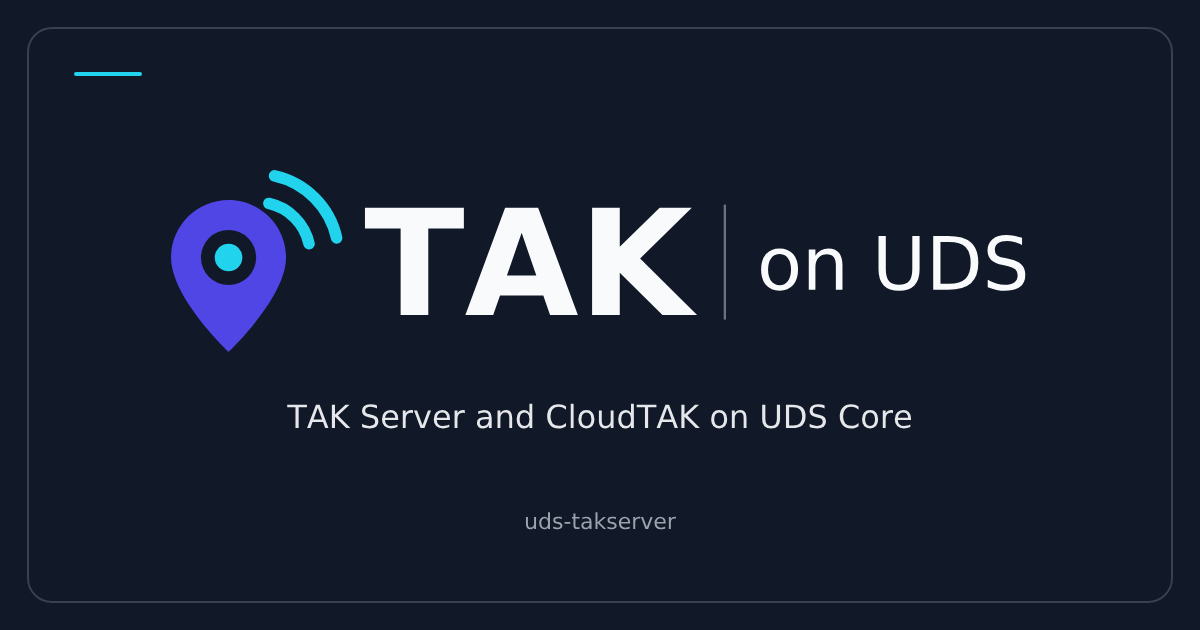
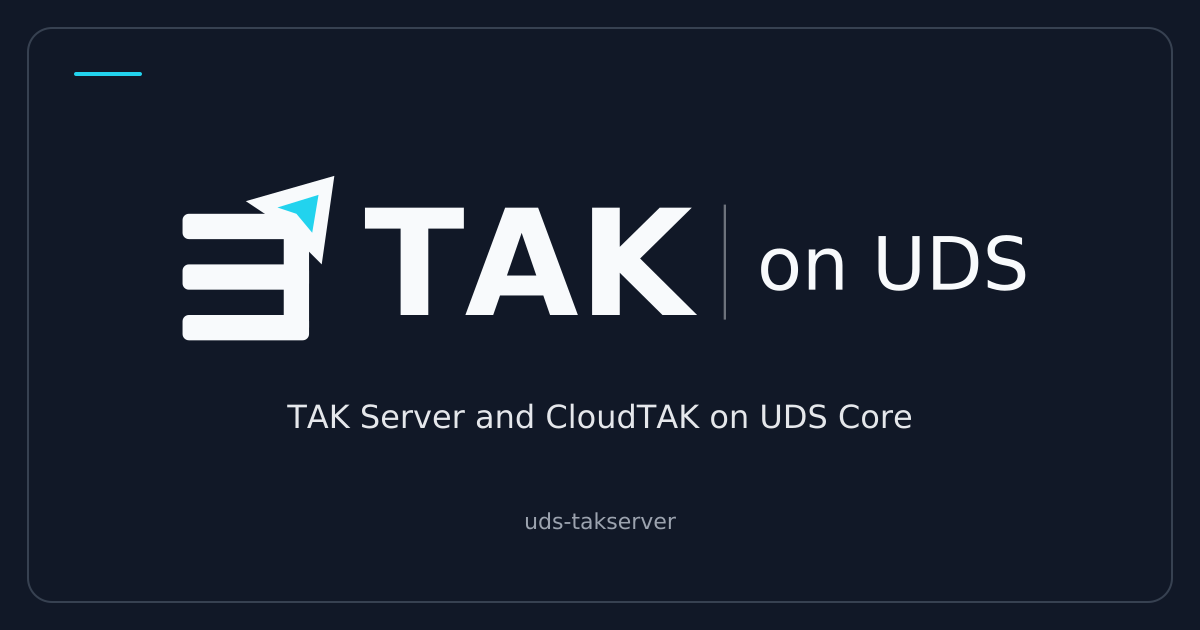
design: apply connected stack identity across project surfaces

Changed region(s): [[0.1233, 0.2714, 0.3083, 0.573]]

diff --git a/assets/concepts/community/index.html b/assets/concepts/community/index.html
@@ -23,4 +23,4 @@
   <path fill="currentColor" d="m51 10-2 12-5-6-6-2Z"/></svg><div class="reverse"><svg viewBox="0 0 64 64" width="48" height="48">  <path d="M16 16V40Q16 52 28 52H32Q44 52 44 40V20" fill="none" stroke="currentColor" stroke-width="8" stroke-linecap="round"/>
   <circle cx="16" cy="16" r="8" fill="currentColor"/>
   <path fill="currentColor" d="M56 4 52 32 40 20 28 12Z"/>
-  <path fill="currentColor" d="m51 10-2 12-5-6-6-2Z"/></svg></div><span class="mono-note">Transparent · one ink ready</span></div><section><h3>INDIGO ACCENT COMPARISON</h3><div class="sizes"><div><img src="trail-relay-indigo.svg" width="16" height="16" alt="Waypoint relay, 16 pixels, indigo accent"><span>16px</span></div><div><img src="trail-relay-indigo.svg" width="24" height="24" alt="Waypoint relay, 24 pixels, indigo accent"><span>24px</span></div><div><img src="trail-relay-indigo.svg" width="32" height="32" alt="Waypoint relay, 32 pixels, indigo accent"><span>32px</span></div></div></section></article></div><div class="recommend"><div><strong>01 / Recommended: connected stack</strong><p>A literal alternative for the integrated platform identity. Three substantial layers connect to a navigation heading. At 16px each layer and the connecting bus are 2px thick. The 2px gaps preserve the three layers. The navy heading outline preserves the silhouette on white.</p></div><div><strong>02 / Alternative: waypoint relay</strong><p>A teammate node links through a U-shaped route to a heading. The route reads clearly at 16px, but says less about an integrated platform. The stack is the stronger combined TAK and UDS identity.</p></div></div><div class="usecases"><h2>From favicon to field screen</h2><p>Each direction shown at its intended size. These are presentation mockups, not changes to the application.</p><article class="usecase"><h3>CONNECTED STACK</h3><div class="docsbar"><img src="stack-relay-wordmark-light.svg" width="193" height="48" alt="TAK on UDS Connected stack wordmark"><span>Documentation</span><span>Guides · Reference</span></div><div class="examples"><div class="apptile"><img src="stack-relay-dark.svg" width="80" height="80" alt="Connected stack app icon"><strong>TAK on UDS</strong><span>App tile · 80px</span></div><div class="video"><div class="mapline one"></div><div class="mapline two"></div><span>Demo presentation / watermark scale</span><img src="stack-relay-wordmark-dark.svg" width="154" height="38" alt="TAK on UDS Connected stack watermark"></div></div></article><article class="usecase"><h3>WAYPOINT RELAY</h3><div class="docsbar"><img src="trail-relay-wordmark-light.svg" width="193" height="48" alt="TAK on UDS Waypoint relay wordmark"><span>Documentation</span><span>Guides · Reference</span></div><div class="examples"><div class="apptile"><img src="trail-relay-dark.svg" width="80" height="80" alt="Waypoint relay app icon"><strong>TAK on UDS</strong><span>App tile · 80px</span></div><div class="video"><div class="mapline one"></div><div class="mapline two"></div><span>Demo presentation / watermark scale</span><img src="trail-relay-wordmark-dark.svg" width="154" height="38" alt="TAK on UDS Waypoint relay watermark"></div></div></article></div><footer><span>REVIEW CONCEPTS · ORIGINAL SVG GEOMETRY · NO DEPLOYED BRANDING CHANGES</span><div class="current"><img src="../../tak-mark.svg" width="24" height="24" alt="Current beacon mark"><span>Current beacon for comparison</span></div></footer></main></html>
+  <path fill="currentColor" d="m51 10-2 12-5-6-6-2Z"/></svg></div><span class="mono-note">Transparent · one ink ready</span></div><section><h3>INDIGO ACCENT COMPARISON</h3><div class="sizes"><div><img src="trail-relay-indigo.svg" width="16" height="16" alt="Waypoint relay, 16 pixels, indigo accent"><span>16px</span></div><div><img src="trail-relay-indigo.svg" width="24" height="24" alt="Waypoint relay, 24 pixels, indigo accent"><span>24px</span></div><div><img src="trail-relay-indigo.svg" width="32" height="32" alt="Waypoint relay, 32 pixels, indigo accent"><span>32px</span></div></div></section></article></div><div class="recommend"><div><strong>01 / Recommended: connected stack</strong><p>A literal alternative for the integrated platform identity. Three substantial layers connect to a navigation heading. At 16px each layer and the connecting bus are 2px thick. The 2px gaps preserve the three layers. The navy heading outline preserves the silhouette on white.</p></div><div><strong>02 / Alternative: waypoint relay</strong><p>A teammate node links through a U-shaped route to a heading. The route reads clearly at 16px, but says less about an integrated platform. The stack is the stronger combined TAK and UDS identity.</p></div></div><div class="usecases"><h2>From favicon to field screen</h2><p>Each direction shown at its intended size. These are presentation mockups, not changes to the application.</p><article class="usecase"><h3>CONNECTED STACK</h3><div class="docsbar"><img src="stack-relay-wordmark-light.svg" width="193" height="48" alt="TAK on UDS Connected stack wordmark"><span>Documentation</span><span>Guides · Reference</span></div><div class="examples"><div class="apptile"><img src="stack-relay-dark.svg" width="80" height="80" alt="Connected stack app icon"><strong>TAK on UDS</strong><span>App tile · 80px</span></div><div class="video"><div class="mapline one"></div><div class="mapline two"></div><span>Demo presentation / watermark scale</span><img src="stack-relay-wordmark-dark.svg" width="154" height="38" alt="TAK on UDS Connected stack watermark"></div></div></article><article class="usecase"><h3>WAYPOINT RELAY</h3><div class="docsbar"><img src="trail-relay-wordmark-light.svg" width="193" height="48" alt="TAK on UDS Waypoint relay wordmark"><span>Documentation</span><span>Guides · Reference</span></div><div class="examples"><div class="apptile"><img src="trail-relay-dark.svg" width="80" height="80" alt="Waypoint relay app icon"><strong>TAK on UDS</strong><span>App tile · 80px</span></div><div class="video"><div class="mapline one"></div><div class="mapline two"></div><span>Demo presentation / watermark scale</span><img src="trail-relay-wordmark-dark.svg" width="154" height="38" alt="TAK on UDS Waypoint relay watermark"></div></div></article></div><footer><span>REVIEW CONCEPTS · ORIGINAL SVG GEOMETRY · NO DEPLOYED BRANDING CHANGES</span><div class="current"><img src="../../tak-mark.svg" width="24" height="24" alt="Selected project mark"><span>Selected project mark</span></div></footer></main></html>

diff --git a/assets/concepts/community/build-preview.py b/assets/concepts/community/build-preview.py
@@ -50,7 +50,7 @@ html = '''<!doctype html>
 <!-- SPDX-License-Identifier: GPL-3.0-only -->
 <html lang="en"><meta charset="utf-8"><meta name="viewport" content="width=device-width,initial-scale=1"><title>TAK on UDS — community logo concepts</title><style>
 *{box-sizing:border-box}body{margin:0;background:#F1F5F9;color:#0F172A;font-family:Arial,Helvetica,sans-serif}main{max-width:1400px;padding:42px 48px 28px;margin:auto}.eyebrow{font-size:11px;letter-spacing:2px;font-weight:700}header{display:flex;justify-content:space-between;align-items:flex-end;margin-bottom:30px}h1{font-size:43px;letter-spacing:-1.7px;line-height:1.05;margin:12px 0}header p{font-size:14px;line-height:1.5;margin:0;max-width:330px}.grid{display:grid;grid-template-columns:1fr 1fr;gap:24px}article{background:#FFFFFF;border:1px solid #CBD5E1;border-radius:20px;overflow:hidden}.meta{padding:20px 24px;display:flex;justify-content:space-between;font-size:10px;font-weight:bold;letter-spacing:1.4px;border-bottom:1px solid #E2E8F0;color:#64748B}.hero{min-height:273px;padding:34px 30px;display:flex;gap:26px;align-items:center}.hero>img{flex:none}h2{font-size:29px;letter-spacing:-.8px;margin:0 0 12px}p{font-size:14px;line-height:1.6;margin:0}.pair{display:grid;grid-template-columns:1fr 1fr}section{padding:22px 24px;background:#F8FAFC}h3{font-size:10px;letter-spacing:1.5px;margin:0 0 25px;color:#64748B}.night{background:#0B1220;color:#F8FAFC}.night h3{color:#CBD5E1}.sizes{height:80px;display:flex;align-items:flex-start;justify-content:space-between;gap:12px}.sizes>div{height:80px;display:flex;flex-direction:column;align-items:center;justify-content:flex-end;gap:12px}.sizes span{font-size:10px}.mono{padding:18px 24px;display:flex;align-items:center;gap:14px;font-size:10px;letter-spacing:1.3px}.reverse{background:#0F172A;color:#fff;border-radius:8px;padding:5px;height:58px}.mono-note{margin-left:auto;max-width:165px;line-height:1.6;letter-spacing:0;color:#64748B}.recommend{display:grid;grid-template-columns:1fr 1fr;gap:24px;margin-top:24px}.recommend>div{padding:0 24px}.recommend strong{display:block;font-size:13px;margin-bottom:7px}.recommend p{font-size:12px;color:#475569;line-height:1.6}footer{margin-top:28px;padding-top:18px;border-top:1px solid #CBD5E1;display:flex;justify-content:space-between;font-size:10px;letter-spacing:.5px;color:#64748B}.current{display:flex;align-items:center;gap:8px}@media(max-width:950px){main{padding:24px}.grid,.recommend{grid-template-columns:1fr}.hero{justify-content:center}header{display:block}header p{max-width:none}}@media(max-width:500px){.hero{padding:24px 18px;gap:16px}.hero>img{width:108px;height:108px}h2{font-size:24px}.pair{grid-template-columns:1fr}footer{gap:16px}.mono-note{display:none}}
-</style><main><header><div><div class="eyebrow">TAK ON UDS / COMMUNITY MARK EXPLORATION</div><h1>Built for people in the field.</h1></div><p>Search & rescue. Civilian response. Connected field teams. Open platform builders.</p></header><div class="grid">'''+''.join(cards)+'''</div><div class="recommend"><div><strong>01 / Recommended: connected stack</strong><p>A literal alternative for the integrated platform identity. Three substantial layers connect to a navigation heading. At 16px each layer and the connecting bus are 2px thick. The 2px gaps preserve the three layers. The navy heading outline preserves the silhouette on white.</p></div><div><strong>02 / Alternative: waypoint relay</strong><p>A teammate node links through a U-shaped route to a heading. The route reads clearly at 16px, but says less about an integrated platform. The stack is the stronger combined TAK and UDS identity.</p></div></div><footer><span>REVIEW CONCEPTS · ORIGINAL SVG GEOMETRY · NO DEPLOYED BRANDING CHANGES</span><div class="current"><img src="../../tak-mark.svg" width="24" height="24" alt="Current beacon mark"><span>Current beacon for comparison</span></div></footer></main></html>'''
+</style><main><header><div><div class="eyebrow">TAK ON UDS / COMMUNITY MARK EXPLORATION</div><h1>Built for people in the field.</h1></div><p>Search & rescue. Civilian response. Connected field teams. Open platform builders.</p></header><div class="grid">'''+''.join(cards)+'''</div><div class="recommend"><div><strong>01 / Recommended: connected stack</strong><p>A literal alternative for the integrated platform identity. Three substantial layers connect to a navigation heading. At 16px each layer and the connecting bus are 2px thick. The 2px gaps preserve the three layers. The navy heading outline preserves the silhouette on white.</p></div><div><strong>02 / Alternative: waypoint relay</strong><p>A teammate node links through a U-shaped route to a heading. The route reads clearly at 16px, but says less about an integrated platform. The stack is the stronger combined TAK and UDS identity.</p></div></div><footer><span>REVIEW CONCEPTS · ORIGINAL SVG GEOMETRY · NO DEPLOYED BRANDING CHANGES</span><div class="current"><img src="../../tak-mark.svg" width="24" height="24" alt="Selected project mark"><span>Selected project mark</span></div></footer></main></html>'''
 use_cases = '<div class="usecases"><h2>From favicon to field screen</h2><p>Each direction shown at its intended size. These are presentation mockups, not changes to the application.</p>'
 for name, label in LABELS.items():
     use_cases += f'''<article class="usecase"><h3>{label.upper()}</h3><div class="docsbar"><img src="{name}-wordmark-light.svg" width="193" height="48" alt="TAK on UDS {label} wordmark"><span>Documentation</span><span>Guides · Reference</span></div><div class="examples"><div class="apptile"><img src="{name}-dark.svg" width="80" height="80" alt="{label} app icon"><strong>TAK on UDS</strong><span>App tile · 80px</span></div><div class="video"><div class="mapline one"></div><div class="mapline two"></div><span>Demo presentation / watermark scale</span><img src="{name}-wordmark-dark.svg" width="154" height="38" alt="TAK on UDS {label} watermark"></div></div></article>'''
@@ -100,7 +100,7 @@ for i,name in enumerate(LABELS):
     for j,theme in enumerate(('light','dark')):
         ink,accent = THEMES[theme]
         label_color = '#0F172A' if theme=='light' else '#F8FAFC'
-        outlines = lettering_xml.replace('#f9fafb',label_color)
+        outlines = lettering_xml.replace('#f9fafb',label_color).replace('#F8FAFC',label_color)
         content = f'<g transform="translate(0 8) scale(2.75)">{ART[name].format(ink=ink,accent=accent)}</g>'+outlines
         (ROOT/f'{name}-wordmark-{theme}.svg').write_text(COPYRIGHT+f'<svg xmlns="http://www.w3.org/2000/svg" width="770" height="192" viewBox="0 0 770 192" role="img"><title>TAK on UDS — {LABELS[name]} concept</title>{content}</svg>\n')
         x=48+j*684;y=88+i*264

diff --git a/demo/ui-reel/render.py b/demo/ui-reel/render.py
@@ -16,6 +16,7 @@ from pathlib import Path
 
 ROOT = Path(__file__).resolve().parent
 LOCK = ROOT / "inputs.lock.json"
+BRANDING = ROOT.parents[1] / "assets/tak-on-uds-dark.svg"
 MAX_DOWNLOAD = 256 * 1024 * 1024
 SCENES = (
     ("CloudTAK map", "demo-clip-cloudtak-user.mp4", 27, 4),
@@ -89,6 +90,7 @@ def export_scenes(work, output, lock, versions):
             "purpose": lock["description"],
             "source_input": next(item for item in lock["sources"] if item["file"] == source),
             "font_input": lock["font"],
+            "branding_input": {"file": "assets/tak-on-uds-dark.svg", "sha256": digest(BRANDING)},
             "recipe_sha256": digest(Path(__file__)), "lock_sha256": digest(LOCK),
             "tool_versions": versions,
             "scene": {"label": label, "source": source, "start_seconds": start,
@@ -140,19 +142,22 @@ def render(cache, output, offline=False, export=False):
                 if archive.getinfo(member).file_size > 2 * 1024 * 1024:
                     raise ValueError("Font archive member exceeds the 2 MiB limit")
                 (work / name).write_bytes(archive.read(member))
+        run(["ffmpeg", "-v", "error", "-y", "-i", str(BRANDING),
+             "-vf", "scale=240:-1", "-frames:v", "1", "branding.png"], work)
         for index, (label, name, start, length) in enumerate(SCENES):
             # Relative, fixed names prevent FFmpeg filter/concat path escaping.
             filters = [
                 "crop=1632:784:144:134", "scale=1856:-2:flags=lanczos",
                 "pad=1920:1080:32:112:color=0x0B1220",
-                "drawtext=fontfile=font-title.ttf:text='TAK Server on UDS':fontsize=30:fontcolor=0xF8FAFC:x=40:y=32",
                 f"drawtext=fontfile=font-label.ttf:text='{label}':fontsize=25:fontcolor=0x22D3EE:x=w-tw-40:y=35",
                 "drawtext=fontfile=font-label.ttf:text='UI EDIT PREVIEW  /  RECORDED DEMO FOOTAGE':fontsize=17:fontcolor=0x94A3B8:x=40:y=1033",
                 "fade=t=in:st=0:d=0.12", f"fade=t=out:st={length-.12}:d=0.12",
                 "fps=30", "format=yuv420p",
             ]
             run(["ffmpeg", "-v", "error", "-y", "-ss", str(start), "-i", str(cache / name),
-                 "-t", str(length), "-an", "-vf", ",".join(filters), "-filter_threads", "2",
+                 "-i", "branding.png", "-t", str(length), "-an",
+                 "-filter_complex", "[0:v]" + ",".join(filters) + "[scene];[scene][1:v]overlay=40:20:format=auto,format=yuv420p[branded]",
+                 "-map", "[branded]", "-filter_complex_threads", "2",
                  "-threads", "2", "-c:v", "libx264", "-preset", "medium", "-crf", "19",
                  f"part{index}.mp4"], work)
         if export:
@@ -170,6 +175,7 @@ def render(cache, output, offline=False, export=False):
     manifest = {
         "purpose": lock["description"], "source_inputs": lock,
         "recipe_sha256": digest(Path(__file__)), "lock_sha256": digest(LOCK),
+        "branding_input": {"file": "assets/tak-on-uds-dark.svg", "sha256": digest(BRANDING)},
         "tool_versions": versions,
         "scenes": [{"label": label, "source": name, "start_seconds": start, "duration_seconds": length}
                    for label, name, start, length in SCENES],

diff --git a/demo/style.py b/demo/style.py
@@ -73,22 +73,23 @@ LOWER_SIZE = 28
 TEXT_MAX_W = int(W * 0.84)
 LOWER_MAX_W = 1180
 LOGO = Path(__file__).resolve().parents[1] / "assets" / "tak-on-uds-dark.svg"
+MARK = LOGO.with_name("tak-mark-dark.svg")
 REPOSITORY = "github.com/jonathanagustin/uds-takserver"
 
 
 @lru_cache(maxsize=8)
-def logo(width):
+def logo(width, mark=False):
     """Rasterize the canonical vector artwork; no recreated lettering/fonts."""
     result = subprocess.run([
-        "ffmpeg", "-v", "error", "-i", str(LOGO), "-vf", f"scale={width}:-1",
+        "ffmpeg", "-v", "error", "-i", str(MARK if mark else LOGO), "-vf", f"scale={width}:-1",
         "-frames:v", "1", "-f", "image2pipe", "-c:v", "png", "-",
     ], capture_output=True, check=True)
     return Image.open(io.BytesIO(result.stdout)).convert("RGBA")
 
 
-def watermark(image, x, y, width=104):
+def watermark(image, x, y, width=200, mark=False):
     """Native artwork in frame chrome or canvas margin, outside recordings."""
-    image.alpha_composite(logo(width), (x, y))
+    image.alpha_composite(logo(width, mark), (x, y))
 
 
 def hex_rgb(value):
@@ -156,7 +157,7 @@ def frame():
         cx = FRAME_X + 20 + i * 20
         dd.ellipse((cx - 6, dot_y - 6, cx + 6, dot_y + 6), fill=hex_rgb(BODY) + (90,))
     under.alpha_composite(dots)
-    watermark(under, FRAME_X + FRAME_W - 124, FRAME_Y + 5)
+    watermark(under, FRAME_X + FRAME_W - 44, FRAME_Y + 6, 24, mark=True)
     over = Image.new("RGBA", (W, H), (0, 0, 0, 0))
     ImageDraw.Draw(over).rounded_rectangle(box, RADIUS, outline=FRAME_BORDER, width=1)
     mask = Image.new("L", (CONTENT_W, CONTENT_H), 0)
@@ -346,7 +347,7 @@ def still(src):
         cx, cy = m + 20 + i * 20, m + TITLE_BAR // 2
         draw.ellipse((cx - 6, cy - 6, cx + 6, cy + 6), fill=hex_rgb(BODY) + (90,))
     if cw >= 240:
-        watermark(img, m + fw - 124, m + 5)
+        watermark(img, m + fw - 44, m + 6, 24, mark=True)
     mask = Image.new("L", (cw, ch), 0)
     ImageDraw.Draw(mask).rounded_rectangle((0, -RADIUS * 2, cw - 1, ch - 1), RADIUS, fill=255)
     img.paste(shot, (m, m + TITLE_BAR), mask)

diff --git a/demo/ui-reel/test_render.py b/demo/ui-reel/test_render.py
@@ -118,7 +118,7 @@ class SceneExportTests(unittest.TestCase):
                          if Path(call.args[0][-1]).name.startswith("part")
                          and call.args[0][-1].endswith(".mp4")]
                 self.assertEqual(len(parts), 5)
-                self.assertTrue(all("RECORDED DEMO FOOTAGE" in command[command.index("-vf") + 1]
+                self.assertTrue(all("RECORDED DEMO FOOTAGE" in command[command.index("-filter_complex") + 1]
                                     for command in parts))
                 self.assertEqual({p.name for p in output.iterdir()}, {
                     "uds-takserver-ui-preview.mp4", "poster.jpg", "review-strip.jpg",
@@ -142,6 +142,7 @@ class SceneExportTests(unittest.TestCase):
                     self.assertEqual(manifest["source_input"], next(
                         item for item in lock["sources"] if item["file"] == scene[1]))
                     self.assertEqual(manifest["font_input"], lock["font"])
+                    self.assertEqual(manifest["branding_input"]["sha256"], REEL.digest(REEL.BRANDING))
                     self.assertEqual(manifest["recipe_sha256"], REEL.digest(Path(REEL.__file__)))
                     self.assertEqual(manifest["lock_sha256"], REEL.digest(lock_path))
                     for item in manifest["outputs"]:

diff --git a/docs-site/README.md b/docs-site/README.md
@@ -65,7 +65,7 @@ ones without this file receive a small navigation shell pointing to their own
 guides. The latest root uses the current project landing described above. README
 is published at Getting started. On an authored splash,
 a home URL hash such as `/#quick-start` opens that section on Getting started.
-The header uses the light and dark `assets/tak-on-uds-*.svg` wordmarks. The favicon uses the smaller `assets/tak-mark.svg` beacon.
+The header uses the light and dark `assets/tak-on-uds-*.svg` wordmarks. The favicon uses the smaller `assets/tak-mark.svg` connected stack.
 `public/og.png` is the static social image.
 
 `starlight-llms-txt` writes `/llms.txt`, `/llms-full.txt`, and `/llms-small.txt` during the build.
@@ -119,7 +119,12 @@ inside the panel do not. Browser checks cover placement and short viewports.
 The landing page uses a native SVG wordmark with outlined lettering, so it does
 not depend on fonts or raster images. `assets/tak-on-uds-dark.svg` has light
 lettering for dark surfaces; `assets/tak-on-uds-light.svg` has dark lettering.
-The shared beacon mark is `assets/tak-mark.svg`, also copied to the favicon.
+The shared connected stack mark is `assets/tak-mark.svg`, also copied to the favicon
+and `assets/icon.svg`. Its navy ink switches to white for a dark system theme;
+the cyan inset is decorative and the outer silhouette stays legible at 16px.
+Explicit `tak-mark-light.svg`, `tak-mark-dark.svg` and `tak-mark-mono.svg` variants
+serve fixed surfaces and one-color uses. `zarf.yaml` embeds `assets/icon.svg` exactly;
+run `.github/scripts/check-icon.sh` after updating either file.
 `src/components/Hero.astro` keeps the accessible page heading and renders the
 appropriate logo for the selected theme.
 

diff --git a/demo/README.md b/demo/README.md
@@ -1,6 +1,6 @@
 # Demo presentation
 
-New demo assemblies use the canonical [TAK on UDS vector artwork](../assets/tak-on-uds-dark.svg) for title cards, endcards and recording watermarks. `style.py` rasterizes that asset with the existing FFmpeg SVG decoder, retaining the artwork's proportions and transparency. It fails if the asset or decoder is unavailable rather than silently substituting a logo. Inter and JetBrains Mono remain required for captions; the logo itself uses vector paths.
+New demo assemblies use the canonical [TAK on UDS vector artwork](../assets/tak-on-uds-dark.svg) for title cards, endcards and large canvas watermarks. The 36px recording title bar uses the matching [Connected stack icon](../assets/tak-mark-dark.svg) at 24px, so its identity survives without miniature lettering. `style.py` rasterizes those assets with the existing FFmpeg SVG decoder, retaining the artwork's proportions and transparency. It fails if the asset or decoder is unavailable rather than silently substituting a logo. Inter and JetBrains Mono remain required for captions; the logo itself uses vector paths.
 
 The small watermark sits in window chrome, or the phone layout's canvas margin, outside the recorded content. Framed screenshots use the same chrome. Title and endcards link to `github.com/jonathanagustin/uds-takserver`. Generated artwork remains in `demo/out`; it is not a new recording or evidence of a successful deployment.
 

diff --git a/assets/concepts/community/README.md b/assets/concepts/community/README.md
@@ -6,8 +6,8 @@ Two original, non-mascot directions for TAK on the **Unified Defense Stack (UDS)
 prepared for [#411](https://github.com/jonathanagustin/uds-takserver/issues/411).
 This second pass starts with the favicon and refines the existing concept geometry.
 The design connects field mapping and shared awareness to an integrated platform
-for applications, identity, networking, security and operations. All work remains
-in this review directory.
+for applications, identity, networking, security and operations. The selected Connected stack is now the canonical family in `assets/`; this
+directory retains both directions and their review proofs.
 
 ![Two directions with native-size favicon examples](review-sheet.png)
 
@@ -97,5 +97,6 @@ checked for titles, stable viewBoxes and forbidden external/raster/script conten
 The 24 favicon PNGs have exact stated dimensions and transparent backgrounds.
 The Chromium overview, native-size examples, wordmarks and usage mockups were
 visually inspected. The review page has no horizontal overflow at 390px width.
-The previews show intended use; they do not modify production navigation, README,
-social imagery or historical demo footage.
+The previews show intended use. Canonical assets now supply production navigation,
+README, social imagery and future demo presentation. Historical demo footage and
+its provenance remain unchanged.

diff --git a/demo/ui-reel/README.md b/demo/ui-reel/README.md
@@ -144,3 +144,8 @@ Scene export cannot be combined with release publication. The existing strict
 six-file reel publisher does not accept scene artifacts. Publishing clips,
 vertical reframing, new scenes and fresh deployment/interoperability evidence
 remain separate work.
+
+Future renders use the canonical Connected stack wordmark from
+`assets/tak-on-uds-dark.svg` in the upper canvas margin. New edit manifests record
+its SHA-256 alongside the original footage and font inputs. Existing videos,
+posters and their provenance records are not regenerated by a branding change.
